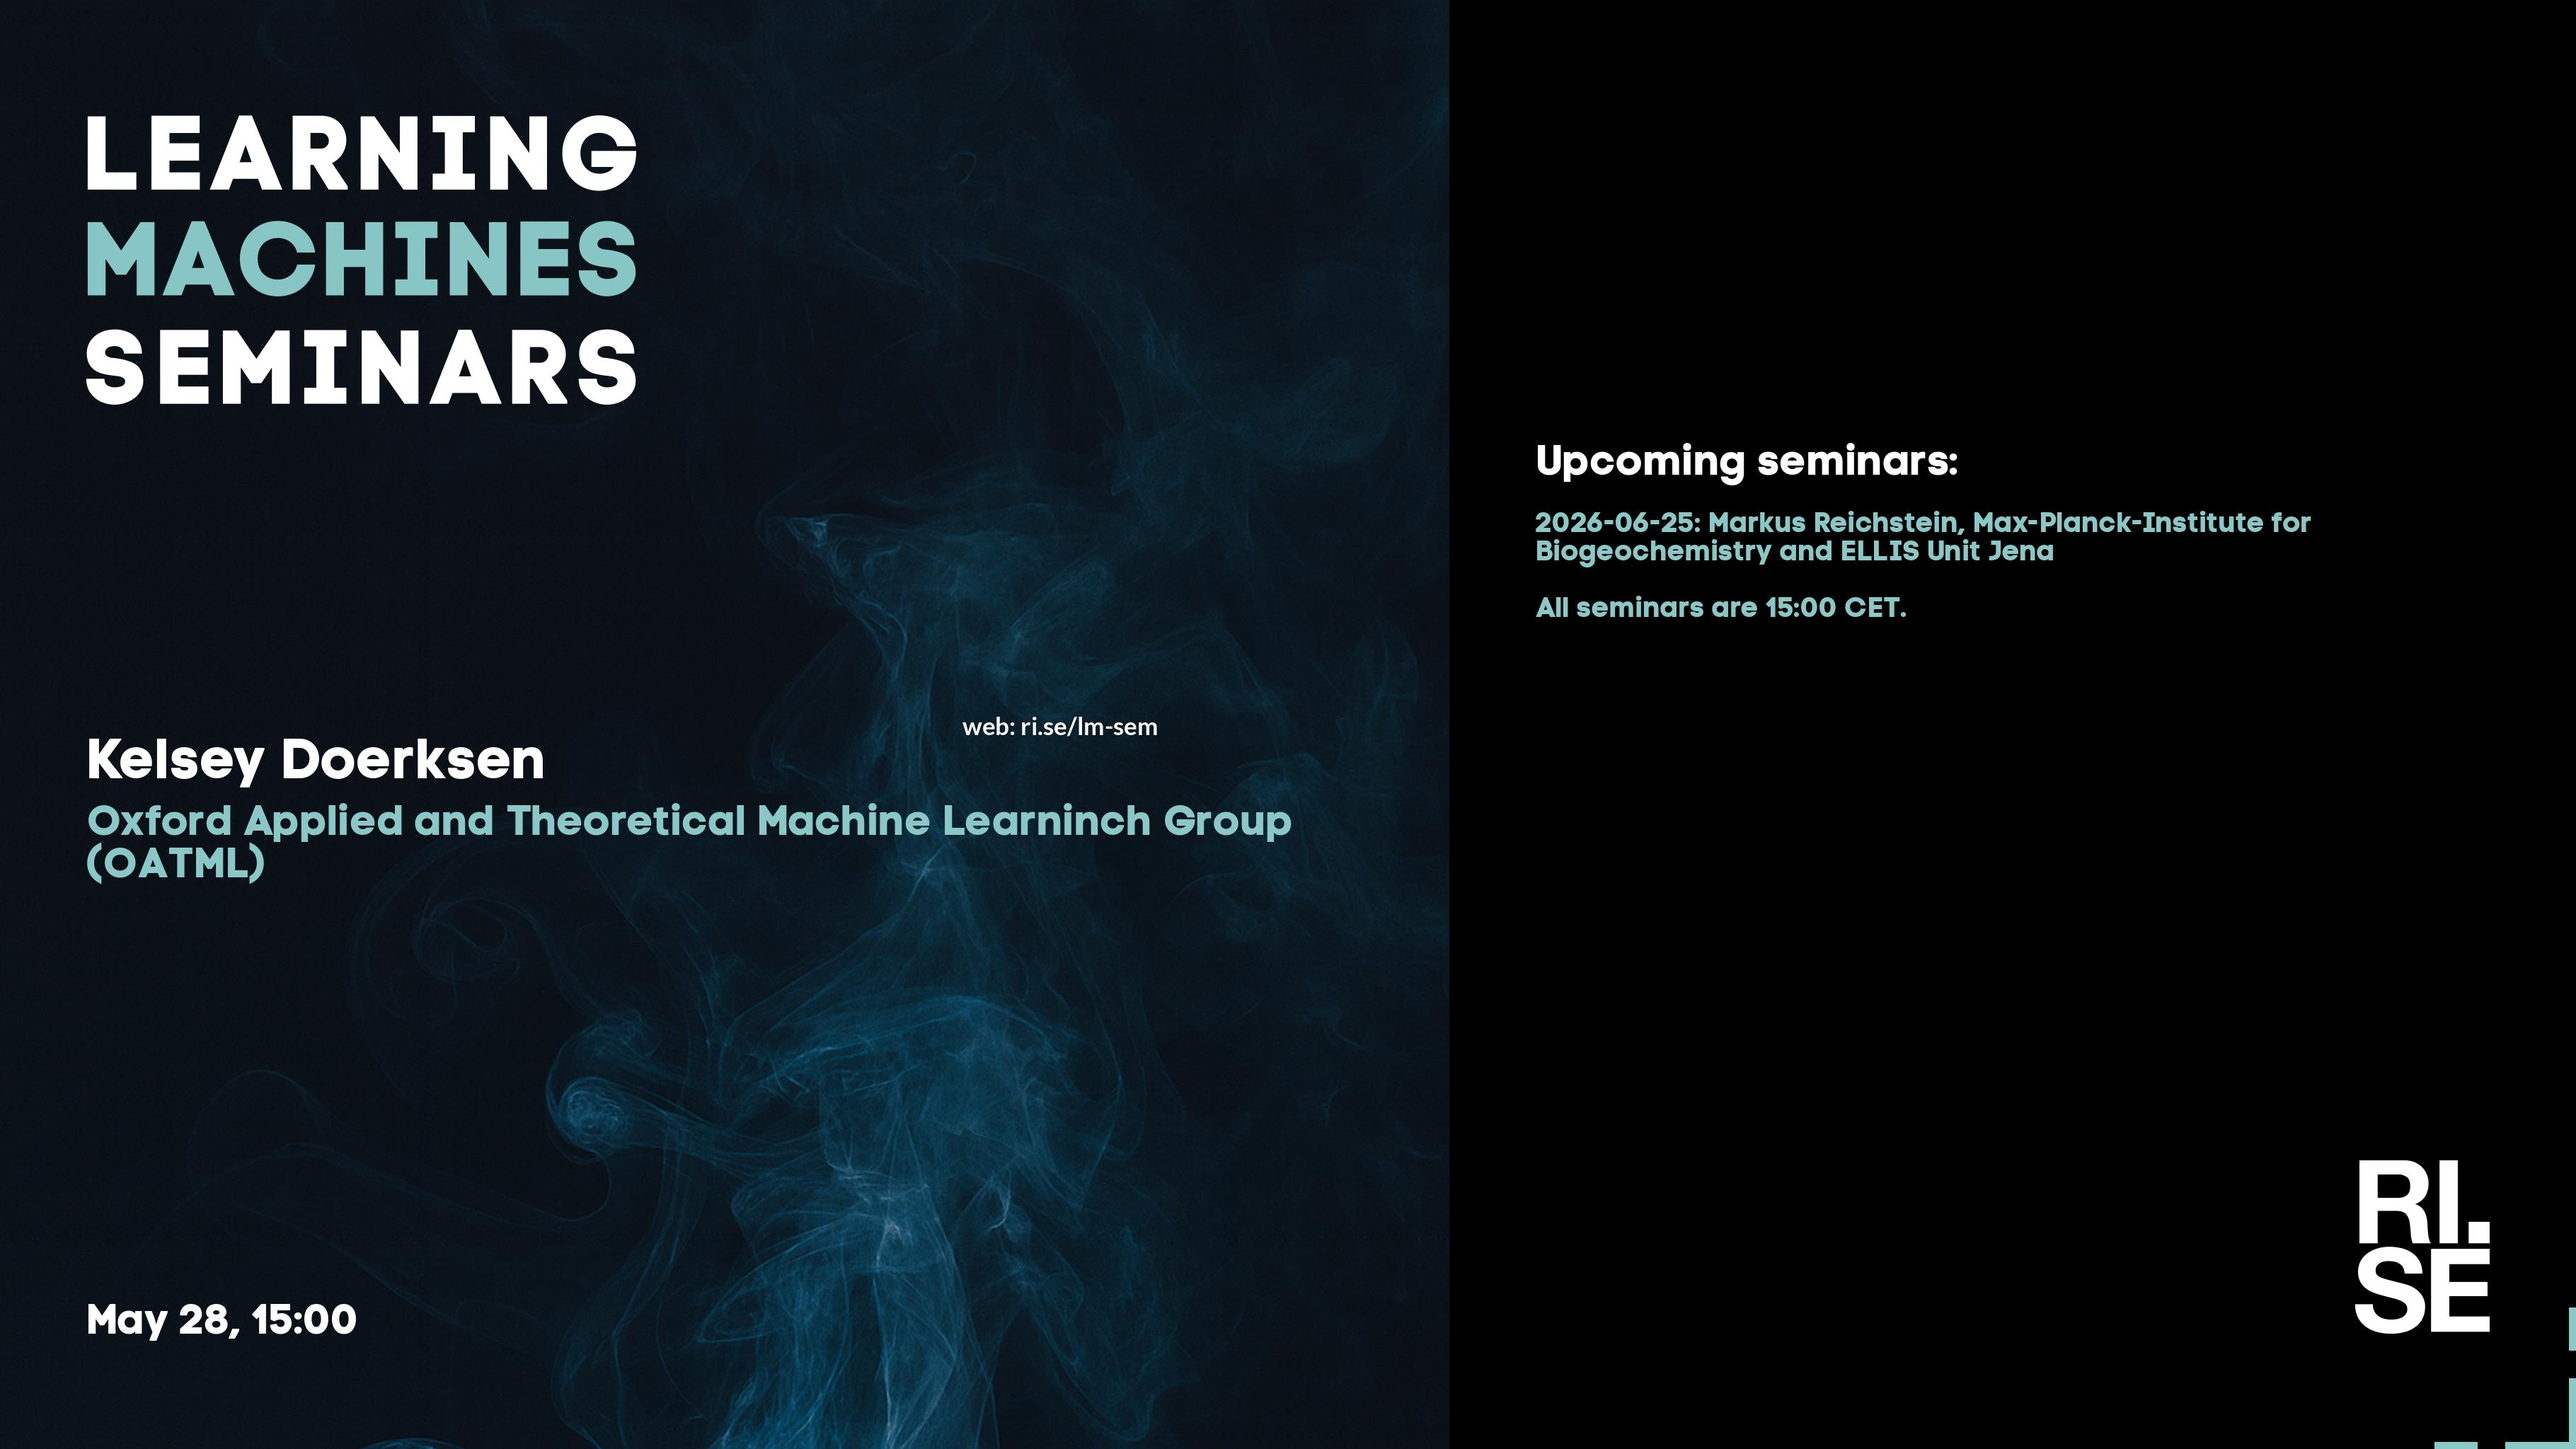
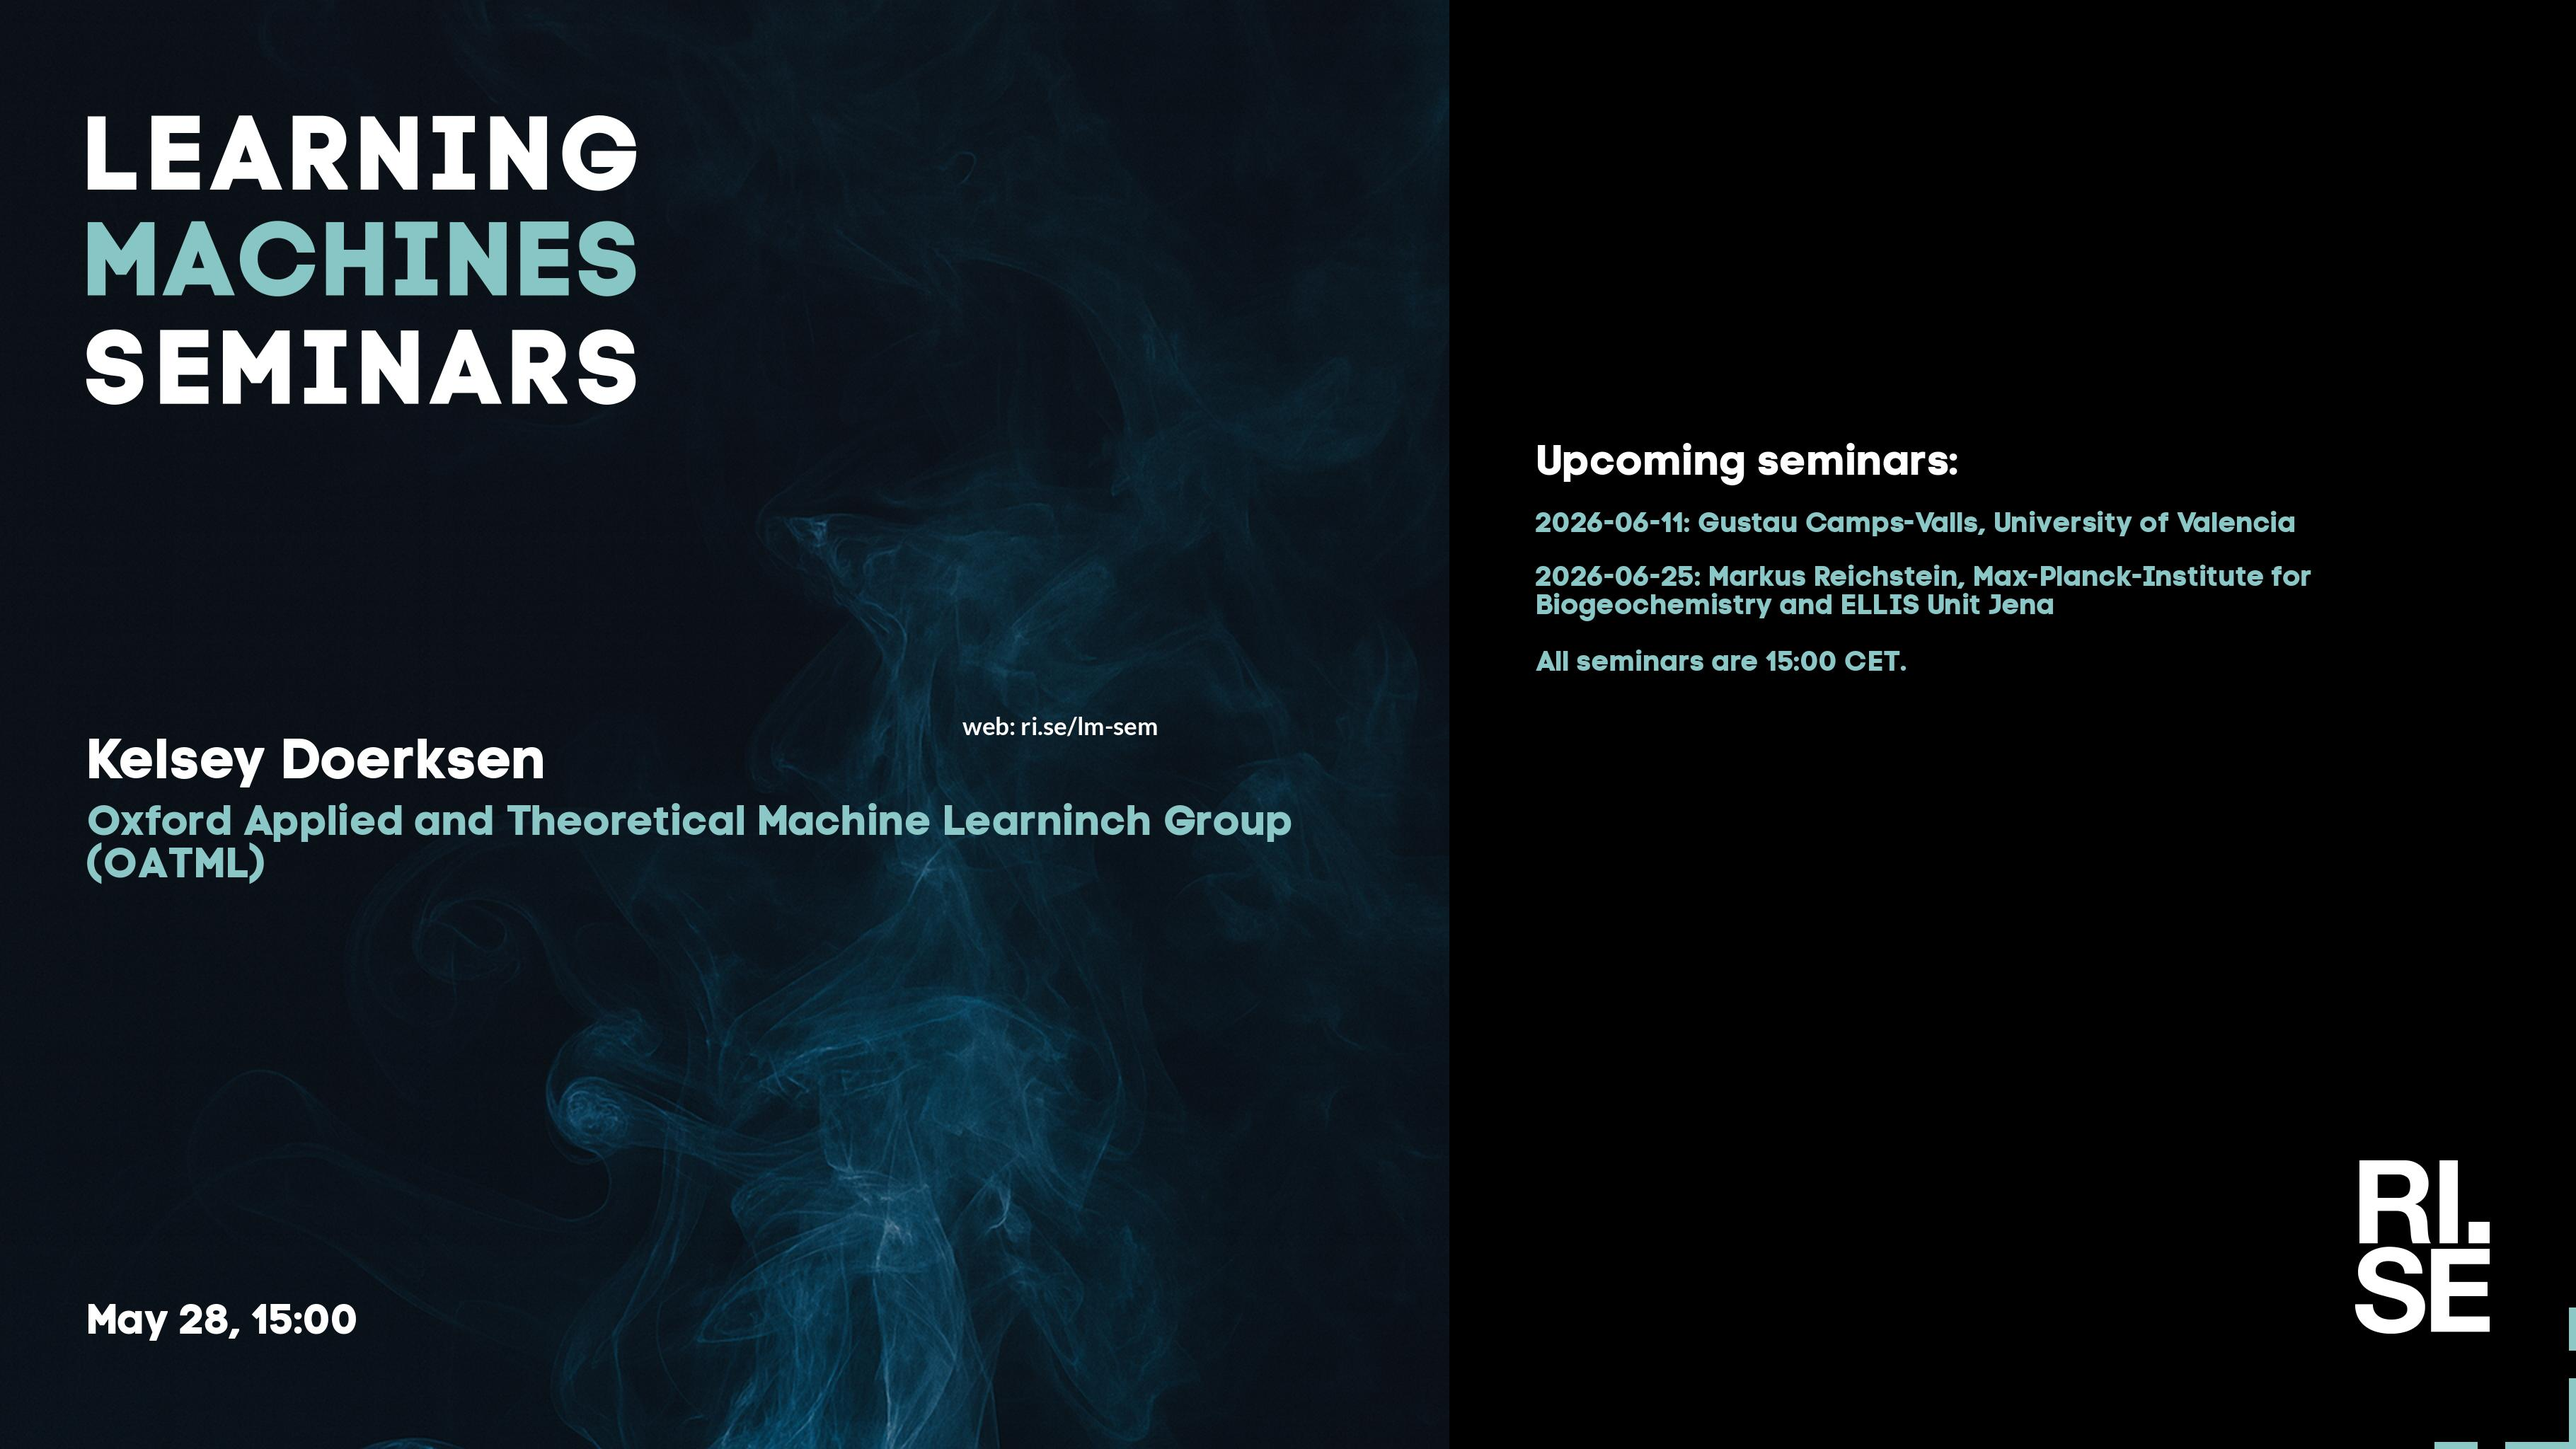
Updated plan on web site.

Changed region(s): [[0.5898, 0.3438, 0.9003, 0.4688]]

diff --git a/lm/2026.md b/lm/2026.md
@@ -20,12 +20,12 @@ table {border-collapse: collapse;}
 | <span style="color:red"> 2026-04-16 </span> | <span style="color:red"> CS Open House </span> | <span style="color:red">  </span> | <span style="color:red">  ---  ---  </span> | <span style="color:red">  </span> | <span style="color:red">  </span> | <span style="color:red"> CANCELLED </span> |
 |  2026-04-23  |  [Purnendu Sardar, Lund University](2026-04-23.md)  |  [photo](2026-04-23-photo-purnendu-sardar.png)  |  [social media bg ](2026-04-23-social-media-bg-purnendu-sardar.jpg) --- [social media photo ](2026-04-23-social-media-photo-purnendu-sardar.jpg) --- [social media 169 ](2026-04-23-social-media-169-purnendu-sardar.jpg)  |  [meeting backdrop ](2026-04-23-meeting-backdrop-purnendu-sardar.jpg)  |  [youtube thumbnail ](2026-04-23-youtube-thumbnail-purnendu-sardar.jpg)  |  STABP  |
 | <span style="color:red"> 2026-04-30 </span> | <span style="color:red"> Walispurgis eve </span> | <span style="color:red">  </span> | <span style="color:red">  ---  ---  </span> | <span style="color:red">  </span> | <span style="color:red">  </span> | <span style="color:red"> CANCELLED </span> |
-| <span style="color:grey"> 2026-05-07 </span> | <span style="color:grey"> Christian B. S. A. o. S. H. o. B. B. ? </span> | <span style="color:grey">  </span> | <span style="color:grey">  ---  ---  </span> | <span style="color:grey">  </span> | <span style="color:grey">  </span> | <span style="color:grey"> S~~TABP~~ </span> |
+| <span style="color:grey"> 2026-05-07 </span> | <span style="color:grey"> Solmax K. K. o. C. B. S. A. o. S. H. o. B. B. ? </span> | <span style="color:grey">  </span> | <span style="color:grey">  ---  ---  </span> | <span style="color:grey">  </span> | <span style="color:grey">  </span> | <span style="color:grey"> S~~TABP~~ </span> |
 | <span style="color:red"> 2026-05-14 </span> | <span style="color:red"> Ascension day </span> | <span style="color:red">  </span> | <span style="color:red">  ---  ---  </span> | <span style="color:red">  </span> | <span style="color:red">  </span> | <span style="color:red"> CANCELLED </span> |
 | <span style="color:red"> 2026-05-21 </span> | <span style="color:red"> Swedish climate symposium, affilitation </span> | <span style="color:red">  </span> | <span style="color:red">  ---  ---  </span> | <span style="color:red">  </span> | <span style="color:red">  </span> | <span style="color:red"> CANCELLED </span> |
 |  2026-05-28  |  [Kelsey Doerksen, Oxford Applied and Theoretical Machine Learninch Group (OATML)](2026-05-28.md)  |    |  [social media bg ](2026-05-28-social-media-bg-kelsey-doerksen.jpg) --- [social media photo ](2026-05-28-social-media-photo-kelsey-doerksen.jpg) --- [social media 169 ](2026-05-28-social-media-169-kelsey-doerksen.jpg)  |  [meeting backdrop ](2026-05-28-meeting-backdrop-kelsey-doerksen.jpg)  |  [youtube thumbnail ](2026-05-28-youtube-thumbnail-kelsey-doerksen.jpg)  |  S~~TABP~~  |
 | <span style="color:purple"> 2026-06-04 </span> | <span style="color:purple"> *Up for grabs!!!* </span> | <span style="color:purple">  </span> | <span style="color:purple">  ---  ---  </span> | <span style="color:purple">  </span> | <span style="color:purple">  </span> | <span style="color:purple"> ~~STABP~~ </span> |
-| <span style="color:purple"> 2026-06-11 </span> | <span style="color:purple"> *Up for grabs!!!* </span> | <span style="color:purple">  </span> | <span style="color:purple">  ---  ---  </span> | <span style="color:purple">  </span> | <span style="color:purple">  </span> | <span style="color:purple"> ~~STABP~~ </span> |
+|  2026-06-11  |  [Gustau Camps-Valls, University of Valencia](2026-06-11.md)  |    |  [social media bg ](2026-06-11-social-media-bg-gustau-camps-valls.jpg) --- [social media photo ](2026-06-11-social-media-photo-gustau-camps-valls.jpg) --- [social media 169 ](2026-06-11-social-media-169-gustau-camps-valls.jpg)  |  [meeting backdrop ](2026-06-11-meeting-backdrop-gustau-camps-valls.jpg)  |  [youtube thumbnail ](2026-06-11-youtube-thumbnail-gustau-camps-valls.jpg)  |  S~~TABP~~  |
 | <span style="color:red"> 2026-06-18 </span> | <span style="color:red"> BI-WEEKLY PAUSE </span> | <span style="color:red">  </span> | <span style="color:red">  ---  ---  </span> | <span style="color:red">  </span> | <span style="color:red">  </span> | <span style="color:red"> CANCELLED </span> |
 |  2026-06-25  |  [Markus Reichstein, Max-Planck-Institute for Biogeochemistry and ELLIS Unit Jena](2026-06-25.md)  |    |  [social media bg ](2026-06-25-social-media-bg-markus-reichstein.jpg) --- [social media photo ](2026-06-25-social-media-photo-markus-reichstein.jpg) --- [social media 169 ](2026-06-25-social-media-169-markus-reichstein.jpg)  |  [meeting backdrop ](2026-06-25-meeting-backdrop-markus-reichstein.jpg)  |  [youtube thumbnail ](2026-06-25-youtube-thumbnail-markus-reichstein.jpg)  |  S~~TABP~~  |
 

diff --git a/lm/index.md b/lm/index.md
@@ -20,12 +20,12 @@ table {border-collapse: collapse;}
 | <span style="color:red"> 2026-04-16 </span> | <span style="color:red"> CS Open House </span> | <span style="color:red">  </span> | <span style="color:red">  ---  ---  </span> | <span style="color:red">  </span> | <span style="color:red">  </span> | <span style="color:red"> CANCELLED </span> |
 |  2026-04-23  |  [Purnendu Sardar, Lund University](2026-04-23.md)  |  [photo](2026-04-23-photo-purnendu-sardar.png)  |  [social media bg ](2026-04-23-social-media-bg-purnendu-sardar.jpg) --- [social media photo ](2026-04-23-social-media-photo-purnendu-sardar.jpg) --- [social media 169 ](2026-04-23-social-media-169-purnendu-sardar.jpg)  |  [meeting backdrop ](2026-04-23-meeting-backdrop-purnendu-sardar.jpg)  |  [youtube thumbnail ](2026-04-23-youtube-thumbnail-purnendu-sardar.jpg)  |  STABP  |
 | <span style="color:red"> 2026-04-30 </span> | <span style="color:red"> Walispurgis eve </span> | <span style="color:red">  </span> | <span style="color:red">  ---  ---  </span> | <span style="color:red">  </span> | <span style="color:red">  </span> | <span style="color:red"> CANCELLED </span> |
-| <span style="color:grey"> 2026-05-07 </span> | <span style="color:grey"> Christian B. S. A. o. S. H. o. B. B. ? </span> | <span style="color:grey">  </span> | <span style="color:grey">  ---  ---  </span> | <span style="color:grey">  </span> | <span style="color:grey">  </span> | <span style="color:grey"> S~~TABP~~ </span> |
+| <span style="color:grey"> 2026-05-07 </span> | <span style="color:grey"> Solmax K. K. o. C. B. S. A. o. S. H. o. B. B. ? </span> | <span style="color:grey">  </span> | <span style="color:grey">  ---  ---  </span> | <span style="color:grey">  </span> | <span style="color:grey">  </span> | <span style="color:grey"> S~~TABP~~ </span> |
 | <span style="color:red"> 2026-05-14 </span> | <span style="color:red"> Ascension day </span> | <span style="color:red">  </span> | <span style="color:red">  ---  ---  </span> | <span style="color:red">  </span> | <span style="color:red">  </span> | <span style="color:red"> CANCELLED </span> |
 | <span style="color:red"> 2026-05-21 </span> | <span style="color:red"> Swedish climate symposium, affilitation </span> | <span style="color:red">  </span> | <span style="color:red">  ---  ---  </span> | <span style="color:red">  </span> | <span style="color:red">  </span> | <span style="color:red"> CANCELLED </span> |
 |  2026-05-28  |  [Kelsey Doerksen, Oxford Applied and Theoretical Machine Learninch Group (OATML)](2026-05-28.md)  |    |  [social media bg ](2026-05-28-social-media-bg-kelsey-doerksen.jpg) --- [social media photo ](2026-05-28-social-media-photo-kelsey-doerksen.jpg) --- [social media 169 ](2026-05-28-social-media-169-kelsey-doerksen.jpg)  |  [meeting backdrop ](2026-05-28-meeting-backdrop-kelsey-doerksen.jpg)  |  [youtube thumbnail ](2026-05-28-youtube-thumbnail-kelsey-doerksen.jpg)  |  S~~TABP~~  |
 | <span style="color:purple"> 2026-06-04 </span> | <span style="color:purple"> *Up for grabs!!!* </span> | <span style="color:purple">  </span> | <span style="color:purple">  ---  ---  </span> | <span style="color:purple">  </span> | <span style="color:purple">  </span> | <span style="color:purple"> ~~STABP~~ </span> |
-| <span style="color:purple"> 2026-06-11 </span> | <span style="color:purple"> *Up for grabs!!!* </span> | <span style="color:purple">  </span> | <span style="color:purple">  ---  ---  </span> | <span style="color:purple">  </span> | <span style="color:purple">  </span> | <span style="color:purple"> ~~STABP~~ </span> |
+|  2026-06-11  |  [Gustau Camps-Valls, University of Valencia](2026-06-11.md)  |    |  [social media bg ](2026-06-11-social-media-bg-gustau-camps-valls.jpg) --- [social media photo ](2026-06-11-social-media-photo-gustau-camps-valls.jpg) --- [social media 169 ](2026-06-11-social-media-169-gustau-camps-valls.jpg)  |  [meeting backdrop ](2026-06-11-meeting-backdrop-gustau-camps-valls.jpg)  |  [youtube thumbnail ](2026-06-11-youtube-thumbnail-gustau-camps-valls.jpg)  |  S~~TABP~~  |
 | <span style="color:red"> 2026-06-18 </span> | <span style="color:red"> BI-WEEKLY PAUSE </span> | <span style="color:red">  </span> | <span style="color:red">  ---  ---  </span> | <span style="color:red">  </span> | <span style="color:red">  </span> | <span style="color:red"> CANCELLED </span> |
 |  2026-06-25  |  [Markus Reichstein, Max-Planck-Institute for Biogeochemistry and ELLIS Unit Jena](2026-06-25.md)  |    |  [social media bg ](2026-06-25-social-media-bg-markus-reichstein.jpg) --- [social media photo ](2026-06-25-social-media-photo-markus-reichstein.jpg) --- [social media 169 ](2026-06-25-social-media-169-markus-reichstein.jpg)  |  [meeting backdrop ](2026-06-25-meeting-backdrop-markus-reichstein.jpg)  |  [youtube thumbnail ](2026-06-25-youtube-thumbnail-markus-reichstein.jpg)  |  S~~TABP~~  |
 

diff --git a/lm/statistics-2026.md b/lm/statistics-2026.md
@@ -10,11 +10,11 @@ title: Learning Machines Statistics 2026
 
 
 
-## 8 speakers
+## 9 speakers
 
-Isabelle Tingzon, Jeppe Rasmussen, Kelsey Doerksen, Markus Reichstein, Nita Mulliqi, Pablo Villanueva Perez, Purnendu Sardar, Sanja Karilanova
+Gustau Camps-Valls, Isabelle Tingzon, Jeppe Rasmussen, Kelsey Doerksen, Markus Reichstein, Nita Mulliqi, Pablo Villanueva Perez, Purnendu Sardar, Sanja Karilanova
 
-## 7 affiliations
+## 8 affiliations
 
-Karolinska Institute, Lund University, Max-Planck-Institute for Biogeochemistry and ELLIS Unit Jena, Oxford Applied and Theoretical Machine Learninch Group (OATML), RISE Research Institutes of Sweden, University of Copenhagen, Uppsala University
+Karolinska Institute, Lund University, Max-Planck-Institute for Biogeochemistry and ELLIS Unit Jena, Oxford Applied and Theoretical Machine Learninch Group (OATML), RISE Research Institutes of Sweden, University of Copenhagen, University of Valencia, Uppsala University
 

diff --git a/lm/2026-06-11.md b/lm/2026-06-11.md
@@ -2,13 +2,13 @@
 layout: default
 metatags: "<meta name=\"robots\" content=\"noindex,nofollow\" />"
 ---
-<img src="/lm/2026-05-28-social-media-169-kelsey-doerksen.jpg" />
+<img src="/lm/2026-06-11-social-media-169-gustau-camps-valls.jpg" />
  
 Welcome to this week's Learning Machines seminar.
 
 **Title:** N/A
 
-**Speaker:** Kelsey Doerksen, Oxford Applied and Theoretical Machine Learninch Group (OATML)
+**Speaker:** Gustau Camps-Valls, University of Valencia
 
 **Abstract:** N/A
 
@@ -16,13 +16,12 @@ Welcome to this week's Learning Machines seminar.
 
 **Location:** This is an online seminar. Connect using Zoom.
 
-**Date:** 2026-05-28 15:00
+**Date:** 2026-06-11 15:00
 
 
 
 **Upcoming seminars:**
 
-* 2026-06-11: Gustau Camps-Valls, University of Valencia
 * 2026-06-25: Markus Reichstein, Max-Planck-Institute for Biogeochemistry and ELLIS Unit Jena
 * All seminars are 15:00 CET.
 

diff --git a/lm/2026-04-23.md b/lm/2026-04-23.md
@@ -35,6 +35,7 @@ This seminar will have an in-person presence at the RISE office in Lund, located
 **Upcoming seminars:**
 
 * 2026-05-28: Kelsey Doerksen, Oxford Applied and Theoretical Machine Learninch Group (OATML)
+* 2026-06-11: Gustau Camps-Valls, University of Valencia
 * 2026-06-25: Markus Reichstein, Max-Planck-Institute for Biogeochemistry and ELLIS Unit Jena
 * All seminars are 15:00 CET.
 
